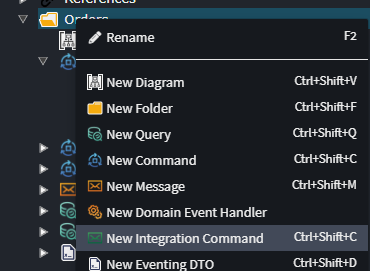
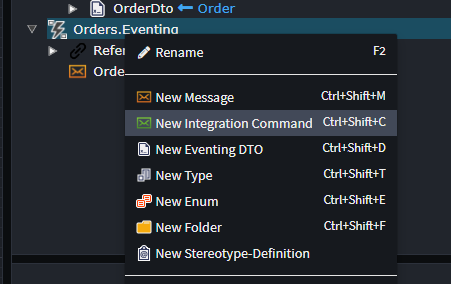
Updated MassTransit readme docs

diff --git a/Modules/Intent.Modules.Eventing.MassTransit/README.md b/Modules/Intent.Modules.Eventing.MassTransit/README.md
@@ -23,9 +23,27 @@ For more information on MassTransit, check out their [official docs](https://mas
 
 From version `6.0.0` of this Module, modeling Integration Events can be achieved from within the Services designer.
 
+### Create Eventing Package
+
+In order to start modeling Integration Events and Commands, it is recommended to start with creating a new Eventing package.
+
+![Create New Package](docs/images/create-new-package.png)
+
+Give it a name that will become the base Namespace for all Events and Commands that will be modeled and placed inside it.
+
+![Create New Package Dialog](docs/images/create-new-eventing-package-dialog.png)
+
+Once its created, you will need to reference this package from your Services package.
+
+![Add Package Reference](docs/images/add-package-reference.png)
+
+Now select your Eventing Package from the list.
+
+![Add Package Reference Dialog](docs/images/add-package-reference-dialog.png)
+
 ### Publishing Integration Events
 
-Create an Integration Event by right-clicking on a Folder and selecting `New Message`.
+Create an Integration Event by right-clicking on the Eventing Package or Folder and selecting `New Message`.
 
 ![New Message](docs/images/new-message.png)
 
@@ -62,7 +80,7 @@ Drag the line to the Event message and will then add a handler operation to work
 
 ### Sending Integration Commands
 
-Create an Integration Command by right-clicking on a Folder and selecting `New Integration Command`.
+Create an Integration Command by right-clicking on the Eventing Package or Folder and selecting `New Integration Command`.
 
 ![New Integration Command](docs/images/new-integration-command.png)
 
